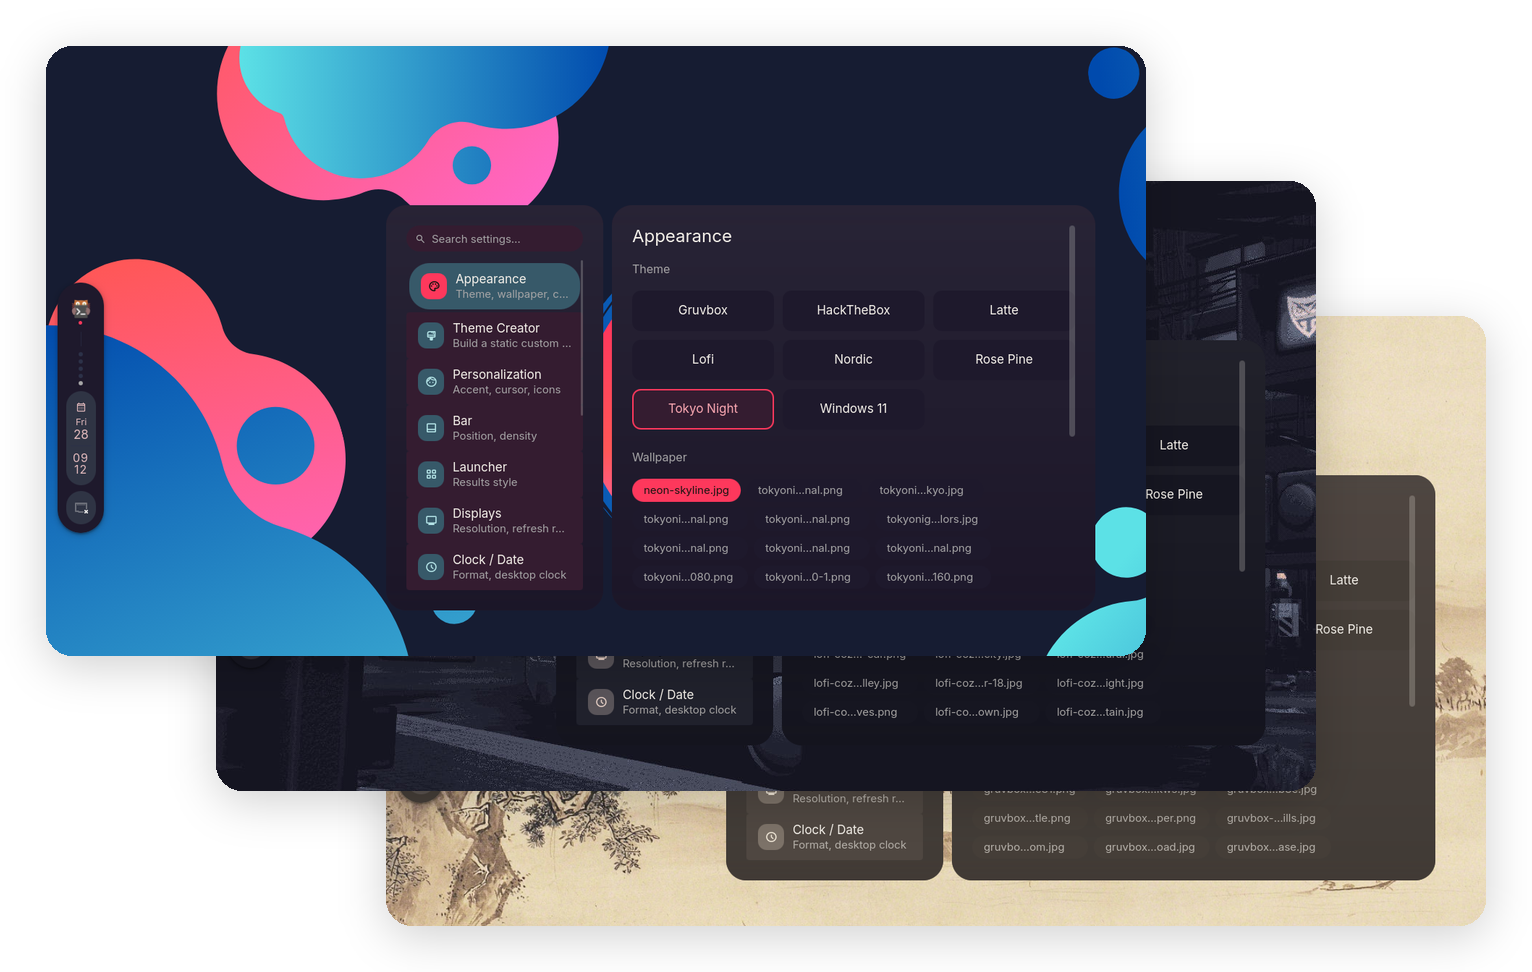
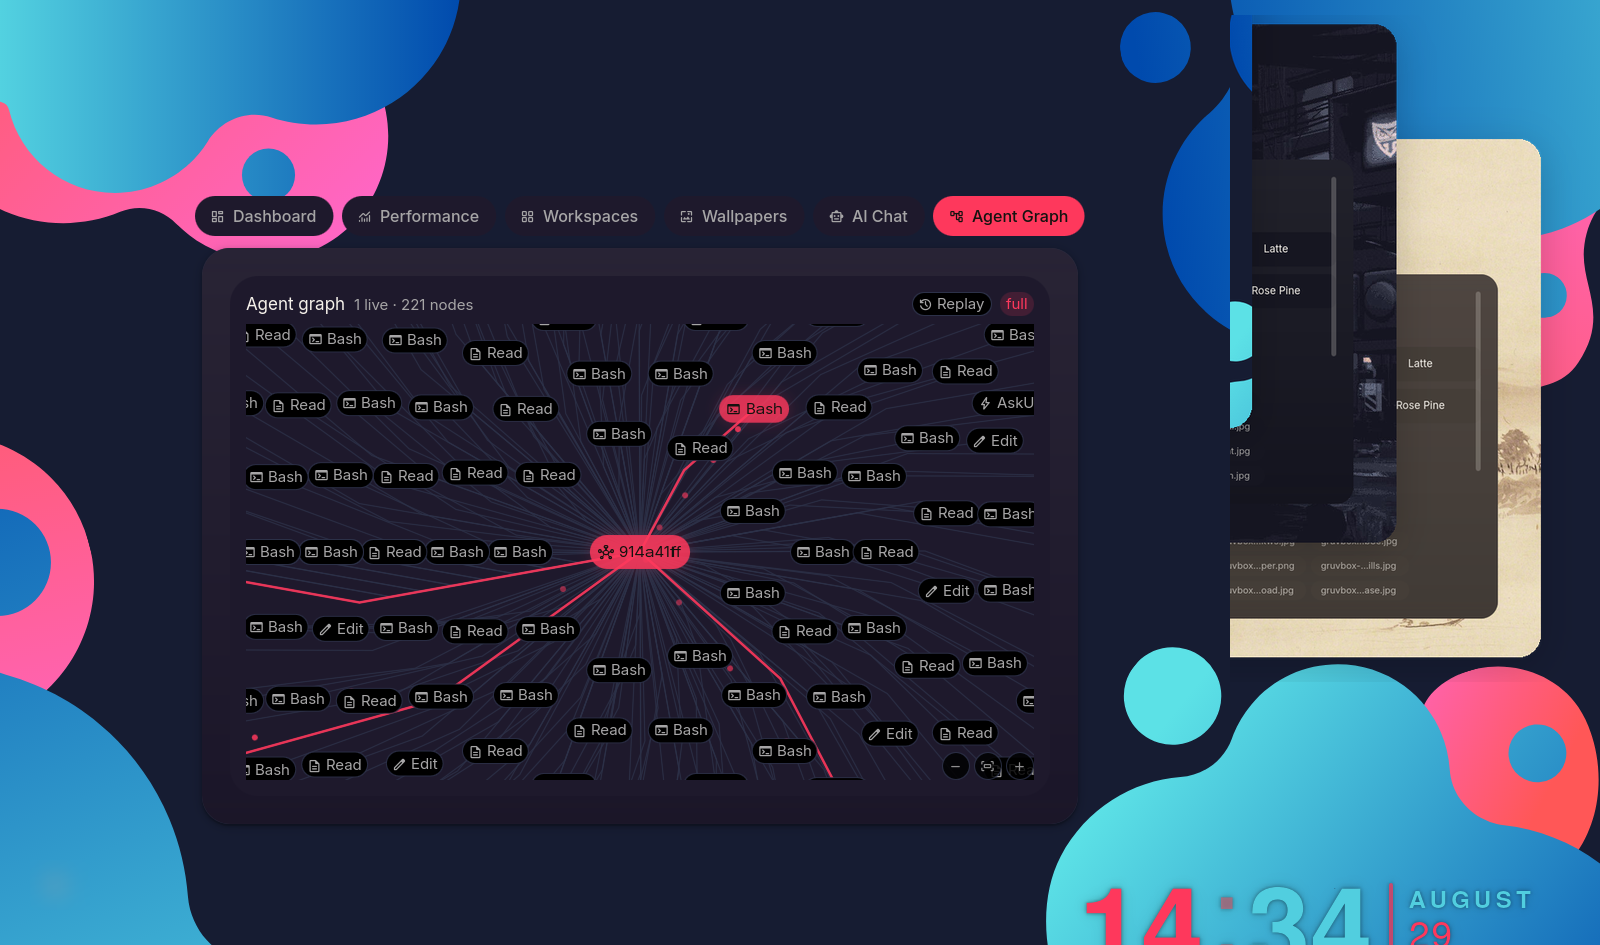
README: swap the hero preview's front card from Settings to Agent Graph
Same composition as before -- Tokyo Night wallpaper, Lofi and Gruvbox
peeking in behind -- but the front card now shows the Agent Graph tab
live (a real 221-node capture from this machine, not a mockup) instead
of Settings > Appearance, since that's the tab worth leading with now.

Claude-Session: https://claude.ai/code/session_01Nkk4jcPDyN3EaowvdmPXDJ

diff --git a/README.md b/README.md
@@ -43,7 +43,7 @@
 
 ## Preview
 
-One shell, reskinned live from a wallpaper. No rebuild, no relogin. Settings → Appearance open over **Tokyo Night**, **Lofi**, and **Gruvbox**, three of the eight themes that ship out of the box:
+One shell, reskinned live from a wallpaper. No rebuild, no relogin. The Agent Graph tab, live, over **Tokyo Night** — reskinned the same way across **Lofi** and **Gruvbox**, two more of the eight themes that ship out of the box:
 
 <p align="center">
   <img src="./assets/aphotic-preview.png" width="900">
